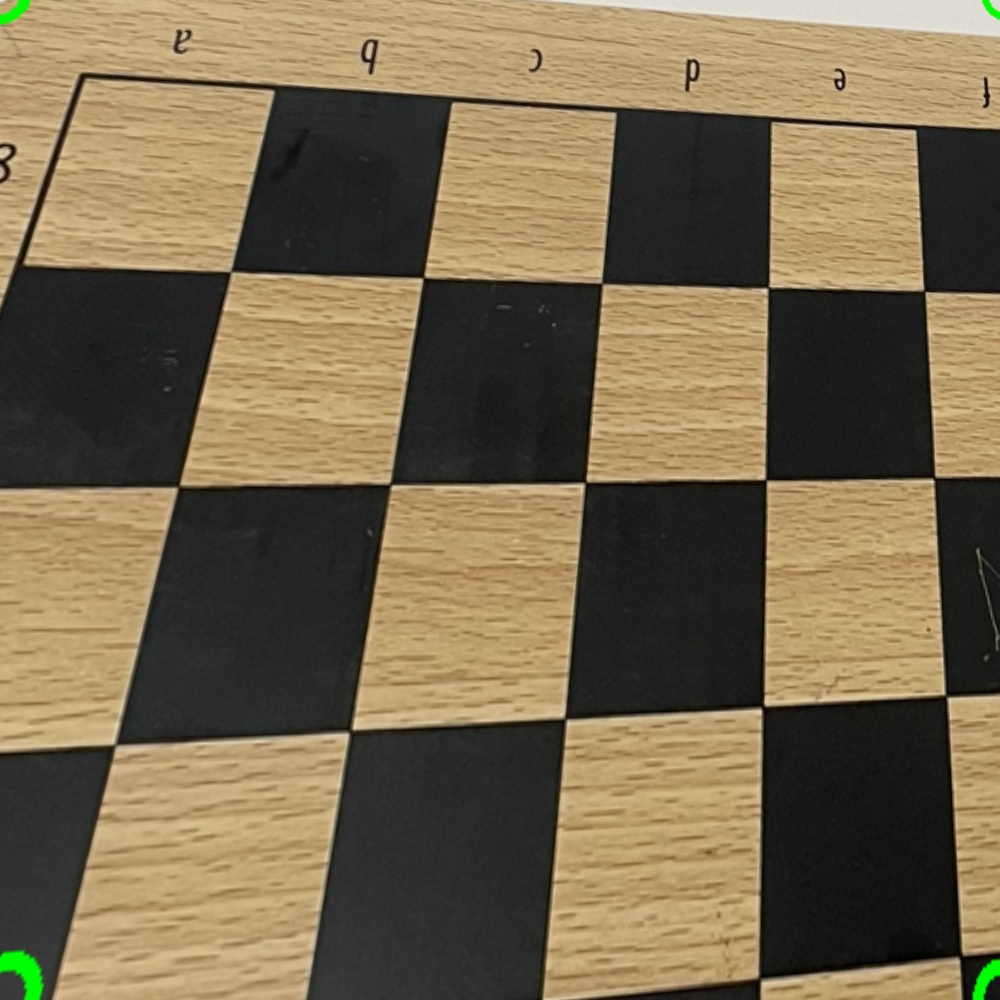
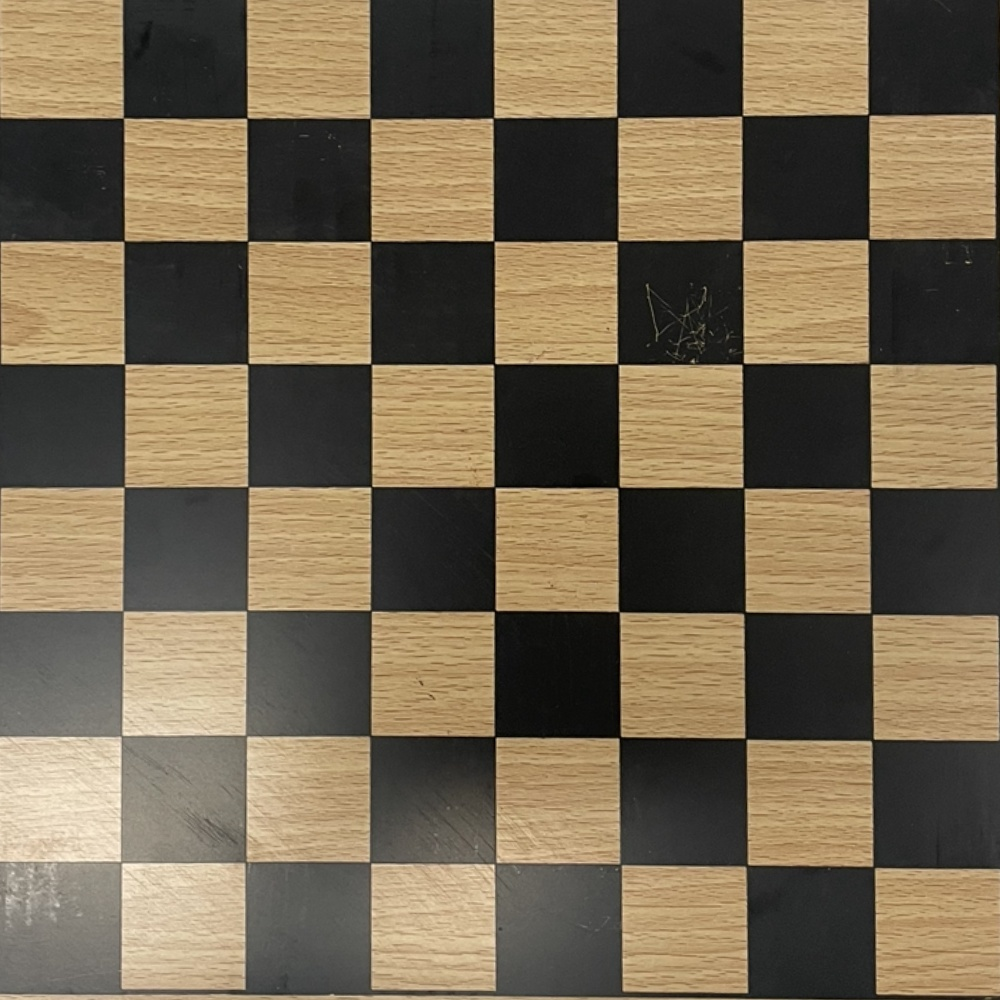
hi

diff --git a/ComputerVision/crop_board.py b/ComputerVision/crop_board.py
@@ -8,13 +8,9 @@ img = cv.imread('test_data/4.jpg',cv.IMREAD_COLOR)
 crop_points = []
 
 
-def warp(target_corners):
+def warp():
     global crop_points
 
-    # Define the vertices of the original quadrilateral
-    # src_vertices = np.array([[x1, y1], [x2, y2], [x3, y3], [x4, y4]], dtype=np.float32)
-
-    # Define the vertices of the square that the quadrilateral should be transformed into
     size = 1000
     src_vertices = np.array([[crop_points[0][0], crop_points[0][1]], 
                             [crop_points[1][0], crop_points[1][1]], 
@@ -23,25 +19,17 @@ def warp(target_corners):
     dst_vertices = np.array([[0, 0], [size, 0], [size, size], [0, size]], dtype=np.float32)
     crop_points = np.array(src_vertices)
 
-    print(crop_points)
-    print(dst_vertices)
-
-    # Calculate the perspective transformation matrix
+    # calculate the perspective transformation matrix
     M = cv.getPerspectiveTransform(src_vertices, dst_vertices)
 
-    # Apply the transformation to the original image
+    # apply transformation to the original image
     dst = cv.warpPerspective(img, M, (size, size))
 
     cv.imwrite('tranformed_image.jpg', dst)
 
 
-def gen_square_target(length):
-    print(length)
-    return np.array([[0,0], [length, 0], [length, length], [0, length]])
-
-
 def crop(): 
-    #mask with white pixels
+    # mask with white pixels
     mask = np.ones(img.shape, dtype=np.uint8)
     mask.fill(255)
 
@@ -51,17 +39,13 @@ def crop():
     masked_image = cv.bitwise_or(img, mask)
     cv.imshow("select corners", masked_image)
 
-    target = gen_square_target(crop_points[1][0] - crop_points[0][0])
-
-    warp(target)
-    #four_point_transform(img, target)
-    cv.imshow("select corners", target)
+    warp()
 
 
 def on_mouse(event, x, y, flags, param):
     if event == cv.EVENT_LBUTTONDOWN:
-        cv.circle(img, (x, y), CIRCLE_RES, (0, 255, 0), 3)
-        cv.imshow("select corners", img)
+        cv.circle(param, (x, y), CIRCLE_RES, (0, 255, 0), 3)
+        cv.imshow("select corners", param)
         crop_points.append((x, y))
 
     if len(crop_points) == 4:
@@ -70,9 +54,10 @@ def on_mouse(event, x, y, flags, param):
 
 def main():
     img = cv.imread('test_data/4.jpg',cv.IMREAD_COLOR)
+    selector = img.copy()
     cv.namedWindow("select corners")
-    cv.setMouseCallback('select corners', on_mouse)
-    cv.imshow("select corners", img)
+    cv.setMouseCallback('select corners', on_mouse, param=selector)
+    cv.imshow("select corners", selector)
     cv.waitKey(0)
     cv.destroyAllwindows()
 

diff --git a/ComputerVision/identify_board.py b/ComputerVision/identify_board.py
@@ -8,9 +8,6 @@ def main():
     
     
     gray = cv.cvtColor(img, cv.COLOR_BGR2GRAY)
-    
-    # Convert the image to grayscale
-    gray = cv.cvtColor(img, cv.COLOR_BGR2GRAY)
 
     # Threshold the image to get only the black pixels
     _, mask = cv.threshold(gray, 0, 255, cv.THRESH_BINARY + cv.THRESH_OTSU)
@@ -30,10 +27,10 @@ def main():
     columns = 3
 
     # Define the chessboard pattern size
-    pattern_size = (rows, columns)
+    # pattern_size = (rows, columns)
 
     # Find the corners of the chessboard in the image
-    found, corners = cv.findChessboardCorners(median, pattern_size, None)
+    # found, corners = cv.findChessboardCorners(median, pattern_size, None)
 
     # if found:
     #     print("found")
@@ -42,30 +39,7 @@ def main():
     # else:
     #     print("not foudn")
 
-    # Use canny edge detection
-    edges = cv.Canny(median,50,150,apertureSize=3)
-    
-    # Apply HoughLinesP method to 
-    # to directly obtain line end points
-    lines_list =[]
-    lines = cv.HoughLinesP(
-                edges, # Input edge image
-                1, # Distance resolution in pixels
-                np.pi/180, # Angle resolution in radians
-                threshold=50, # Min number of votes for valid line
-                minLineLength=5, # Min allowed length of line
-                maxLineGap=15 # Max allowed gap between line for joining them
-                )
-    
-    # Iterate over points
-    for points in lines:
-        # Extracted points nested in the list
-        x1,y1,x2,y2=points[0]
-        # Draw the lines joing the points
-        # On the original image
-        cv.line(median,(x1,y1),(x2,y2),(0,255,0),2)
-        # Maintain a simples lookup list for points
-        lines_list.append([(x1,y1),(x2,y2)])
+    # gray = cv.cvtColor(gray, cv.COLOR_BGR2GRAY)
 
     # Show the result
     cv.imshow("Result", median)

diff --git a/ComputerVision/find_board.py b/ComputerVision/find_board.py
@@ -1,0 +1,66 @@
+import cv2
+import sys
+import numpy as np
+
+
+def flood_fill(mask):
+    # Define a seed point for the flood fill algorithm
+    h, w = mask.shape[:2]
+    seed_point = (10, 10)
+
+    # Define the fill value and tolerance for the flood fill algorithm
+    fill_value = 255
+    tolerance = 15
+
+    # Perform the flood fill algorithm
+    mask = cv2.floodFill(mask, None, seed_point, fill_value, loDiff=tolerance, upDiff=tolerance)[1]
+
+
+def blur_color_range(img):
+    # Convert the image from RGB to HSV color space
+    hsv = cv2.cvtColor(img, cv2.COLOR_BGR2HSV)
+
+    # Define the range of brown color in the HSV color space
+    lower_brown = np.array([0, 0, 0])
+    upper_brown = np.array([100, 200, 200])
+
+    # Threshold the HSV image to get only brown colors
+    mask = cv2.inRange(hsv, lower_brown, upper_brown)
+
+    # Apply median blur only to the brown pixels
+    blurred = cv2.medianBlur(mask, 3, img)
+
+    return blurred
+
+
+def proc_frame(img):
+    img = cv2.GaussianBlur(img, (5, 5), 0)
+    # blurred = cv2.medianBlur(img, 81)
+    blurred = blur_color_range(img)
+    # flood_fill(blurred)
+
+    gray = np.float32(blurred)
+    dst = cv2.cornerHarris(gray,2,3,0.04)
+    dst = cv2.dilate(dst,None)
+    img[dst>0.01*dst.max()]=[0,0,255]
+
+    # return blurred
+    cv2.imshow('Original Image', img)
+    cv2.imshow('Blurred Image', blurred)
+    cv2.waitKey(0)
+    cv2.destroyAllWindows()
+
+def main():
+    img = cv2.imread('test_data/5.jpg',cv2.IMREAD_COLOR)
+
+    # cap = cv2.VideoCapture('sample.mp4')
+    # while (cap.isOpened()):
+    #     ret, frame = cap.read()
+    #     cv2.imshow('Frame', frame)
+
+    proc_frame(img)
+
+
+
+if __name__ == '__main__':
+    main()

diff --git a/ComputerVision/board_init.py b/ComputerVision/board_init.py
@@ -1,0 +1,52 @@
+import cv2
+import sys
+import numpy as np
+
+OFFSET = 400
+
+def crop(img, offset): 
+    height = img.shape[0]
+    width  = img.shape[1]
+    center_x = int(width/2)
+    center_y = int(height/2)
+
+    cropped_image = img[center_x-offset:center_x+2*offset][center_y-offset:center_y+2*offset]
+    cv2.imshow("select corners", cropped_image)
+
+
+def draw_crosshairs(img, offset, color):
+    height = img.shape[0]
+    width  = img.shape[1]
+    center_x = int(width/2)
+    center_y = int(height/2)
+
+    copy = img.copy()
+    #                     x       y
+    cv2.drawMarker(copy, (center_x, center_y), color, markerType=cv2.MARKER_CROSS, thickness=4)
+    cv2.drawMarker(copy, (center_x-OFFSET, center_y-OFFSET), color, markerType=cv2.MARKER_CROSS, thickness=4)
+    cv2.drawMarker(copy, (center_x+OFFSET, center_y-OFFSET), color, markerType=cv2.MARKER_CROSS, thickness=4)
+    cv2.drawMarker(copy, (center_x+OFFSET, center_y+OFFSET), color, markerType=cv2.MARKER_CROSS, thickness=4)
+    cv2.drawMarker(copy, (center_x-OFFSET, center_y+OFFSET), color, markerType=cv2.MARKER_CROSS, thickness=4)
+
+    cv2.imshow('align boardzzz with crosshairs', copy)
+
+
+def main():
+    img = cv2.imread('test_data/4.jpg',cv2.IMREAD_COLOR)
+    
+    
+    CROSSHAIR_COLOR = (100, 200, 100)
+    draw_crosshairs(img, 400, CROSSHAIR_COLOR)
+
+    # cv2.imshow('align board with crosshairs', img)
+
+    if cv2.waitKey(0) == 32:
+        CROSSHAIR_COLOR = (200, 100, 100)
+        draw_crosshairs(img, 400, CROSSHAIR_COLOR)
+        cv2.imwrite('board_pics/taken.jpg', img)
+        crop(img, 400)
+    cv2.waitKey(0)
+    cv2.destroyAllWindows()
+
+if __name__ == '__main__':
+    main()
